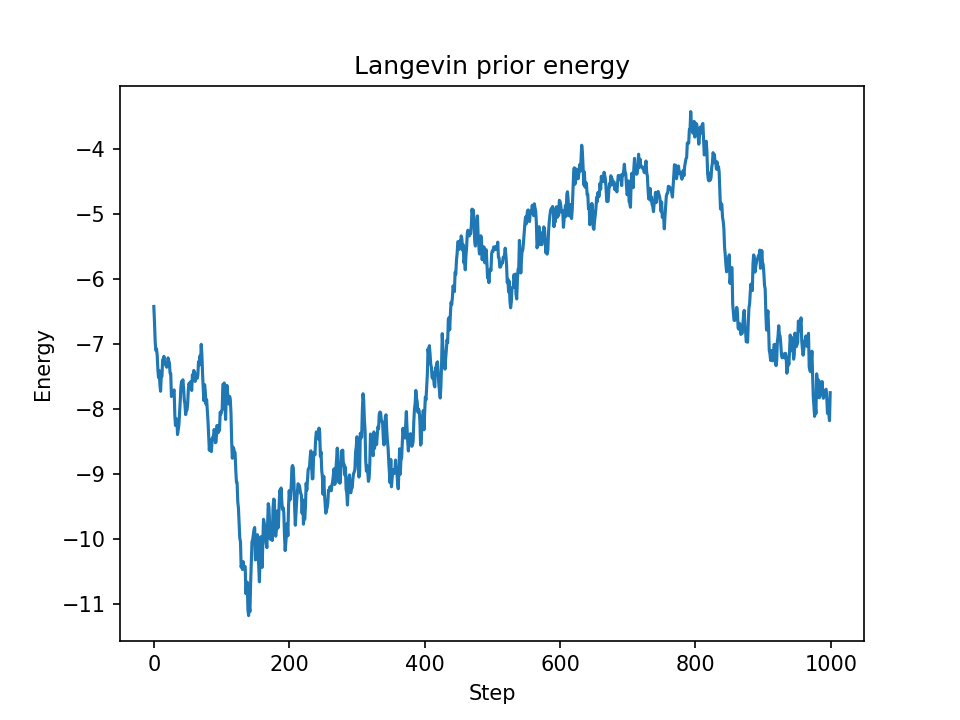
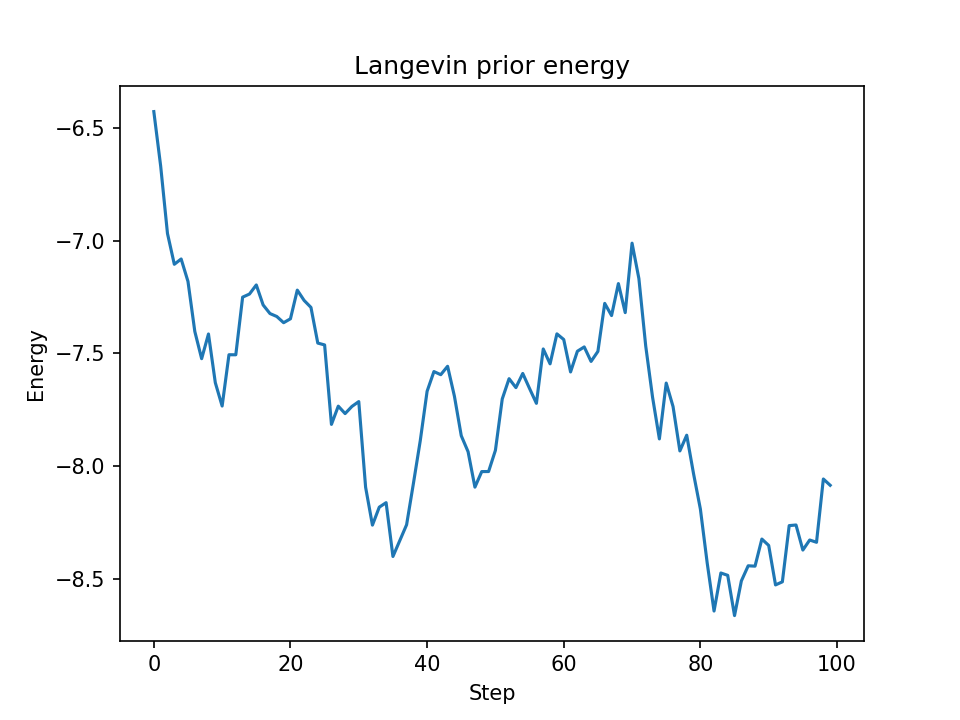
test utils

diff --git a/tests/test_mle.py b/tests/test_mle.py
@@ -1,55 +1,18 @@
 import jax
 import jax.numpy as jnp
 import pytest
-from ml_collections import ConfigDict
 from flax import nnx
 
 from networks import mleEBM
-
-
-def make_config(z_dim=8, num_temps=5):
-	cfg = ConfigDict()
-
-	cfg.model = ConfigDict()
-	cfg.model.z_dim = z_dim
-
-	cfg.ebm = ConfigDict()
-	cfg.ebm.energy_dim = 32
-	cfg.ebm.leakyrelu_leak = 0.1
-	cfg.ebm.p0_stddev = 1.0
-	cfg.ebm.ula_eta = 1e-3
-	cfg.ebm.ula_numsteps = 100
-
-	cfg.gen = ConfigDict()
-	cfg.gen.hidden_dim = 32
-	cfg.gen.img_channels = 3
-	cfg.gen.image_res = 32
-	cfg.gen.leakyrelu_leak = 0.1
-	cfg.gen.gaussian_stddev = 1.0
-	cfg.gen.ula_eta = 1e-3
-	cfg.gen.ula_numsteps = 100
-
-	cfg.thermo = ConfigDict()
-	cfg.thermo.num_temps = num_temps
-	cfg.thermo.annealing_cycles = 1.0
-	cfg.thermo.p_start = 0.5
-	cfg.thermo.p_end = 2.0
-
-	cfg.training = ConfigDict()
-	cfg.training.epochs = 100
-
-	return cfg
-
-
-def make_x(batch=4):
-	return jax.random.normal(jax.random.key(0), (batch, 32, 32, 3))
+from utils import make_config, make_x
 
 
 def test_shape():
 	cfg = make_config()
 	key = jax.random.key(0)
+	rngs = nnx.Rngs(key)
 
-	model = mleEBM(cfg, nnx.Rngs(key))
+	model = mleEBM(cfg, rngs)
 	x = make_x(batch=4)
 	z = model.sample_posterior(key, x)
 

diff --git a/tests/utils.py b/tests/utils.py
@@ -1,0 +1,40 @@
+import jax
+from ml_collections import ConfigDict
+
+
+def make_config(z_dim=8, num_temps=5):
+	cfg = ConfigDict()
+
+	cfg.model = ConfigDict()
+	cfg.model.z_dim = z_dim
+
+	cfg.ebm = ConfigDict()
+	cfg.ebm.energy_dim = 32
+	cfg.ebm.leakyrelu_leak = 0.1
+	cfg.ebm.p0_stddev = 1.0
+	cfg.ebm.ula_eta = 1e-3
+	cfg.ebm.ula_numsteps = 100
+
+	cfg.gen = ConfigDict()
+	cfg.gen.hidden_dim = 32
+	cfg.gen.img_channels = 3
+	cfg.gen.image_res = 32
+	cfg.gen.leakyrelu_leak = 0.1
+	cfg.gen.gaussian_stddev = 1.0
+	cfg.gen.ula_eta = 1e-3
+	cfg.gen.ula_numsteps = 100
+
+	cfg.thermo = ConfigDict()
+	cfg.thermo.num_temps = num_temps
+	cfg.thermo.annealing_cycles = 1.0
+	cfg.thermo.p_start = 0.5
+	cfg.thermo.p_end = 2.0
+
+	cfg.training = ConfigDict()
+	cfg.training.epochs = 100
+
+	return cfg
+
+
+def make_x(batch=4):
+	return jax.random.normal(jax.random.key(0), (batch, 32, 32, 3))

diff --git a/tests/test_ula.py b/tests/test_ula.py
@@ -7,31 +7,7 @@ import matplotlib.pyplot as plt
 from ml_collections import ConfigDict
 
 from networks import latentEBM
-
-
-def make_config(z_dim=8):
-	cfg = ConfigDict()
-
-	cfg.model = ConfigDict()
-	cfg.model.z_dim = z_dim
-
-	cfg.ebm = ConfigDict()
-	cfg.ebm.energy_dim = 32
-	cfg.ebm.leakyrelu_leak = 0.1
-	cfg.ebm.p0_stddev = 1.0
-	cfg.ebm.ula_eta = 0.001
-	cfg.ebm.ula_numsteps = 1000
-
-	cfg.gen = ConfigDict()
-	cfg.gen.hidden_dim = 32
-	cfg.gen.img_channels = 3
-	cfg.gen.image_res = 32
-	cfg.gen.leakyrelu_leak = 0.1
-	cfg.gen.gaussian_stddev = 1.0
-	cfg.gen.ula_eta = 1e-3
-	cfg.gen.ula_numsteps = 100
-
-	return cfg
+from utils import make_config
 
 
 def run_chain(model, key):

diff --git a/tests/test_base.py b/tests/test_base.py
@@ -1,0 +1,19 @@
+import jax
+import jax.numpy as jnp
+from flax import nnx
+
+from networks import latentEBM
+from utils import make_config
+
+
+def test_forward_generates_samples():
+	cfg = make_config()
+	key = jax.random.key(0)
+	rngs = nnx.Rngs(key)
+
+	model = latentEBM(cfg, rngs)
+
+	N = 4
+	x = model(key, N)
+	assert x.shape[0] == N
+	assert x.shape[1:] == (32, 32, 3)

diff --git a/src/networks/base.py b/src/networks/base.py
@@ -41,9 +41,9 @@ class latentEBM(nnx.Module):
 		z0 = jax.random.normal(subkey, (N, 1, 1, self.z_dim)) * self.ebm.sigma
 		return z0, key
 
-	def sample_prior(self, key: jax.Array) -> jax.Array:
-		z0, key = self.ula_init(key, 1)
+	def sample_prior(self, key: jax.Array, N: int) -> jax.Array:
 		self.eval()
+		z0, key = self.ula_init(key, N)
 
 		(z, _), _ = jax.lax.scan(
 			self.ula_prior_step,
@@ -53,3 +53,7 @@ class latentEBM(nnx.Module):
 		)
 
 		return z
+
+	def __call__(self, key: jax.Array, N: int) -> jax.Array:
+		z = self.sample_prior(key, N)
+		return self.gen(z)